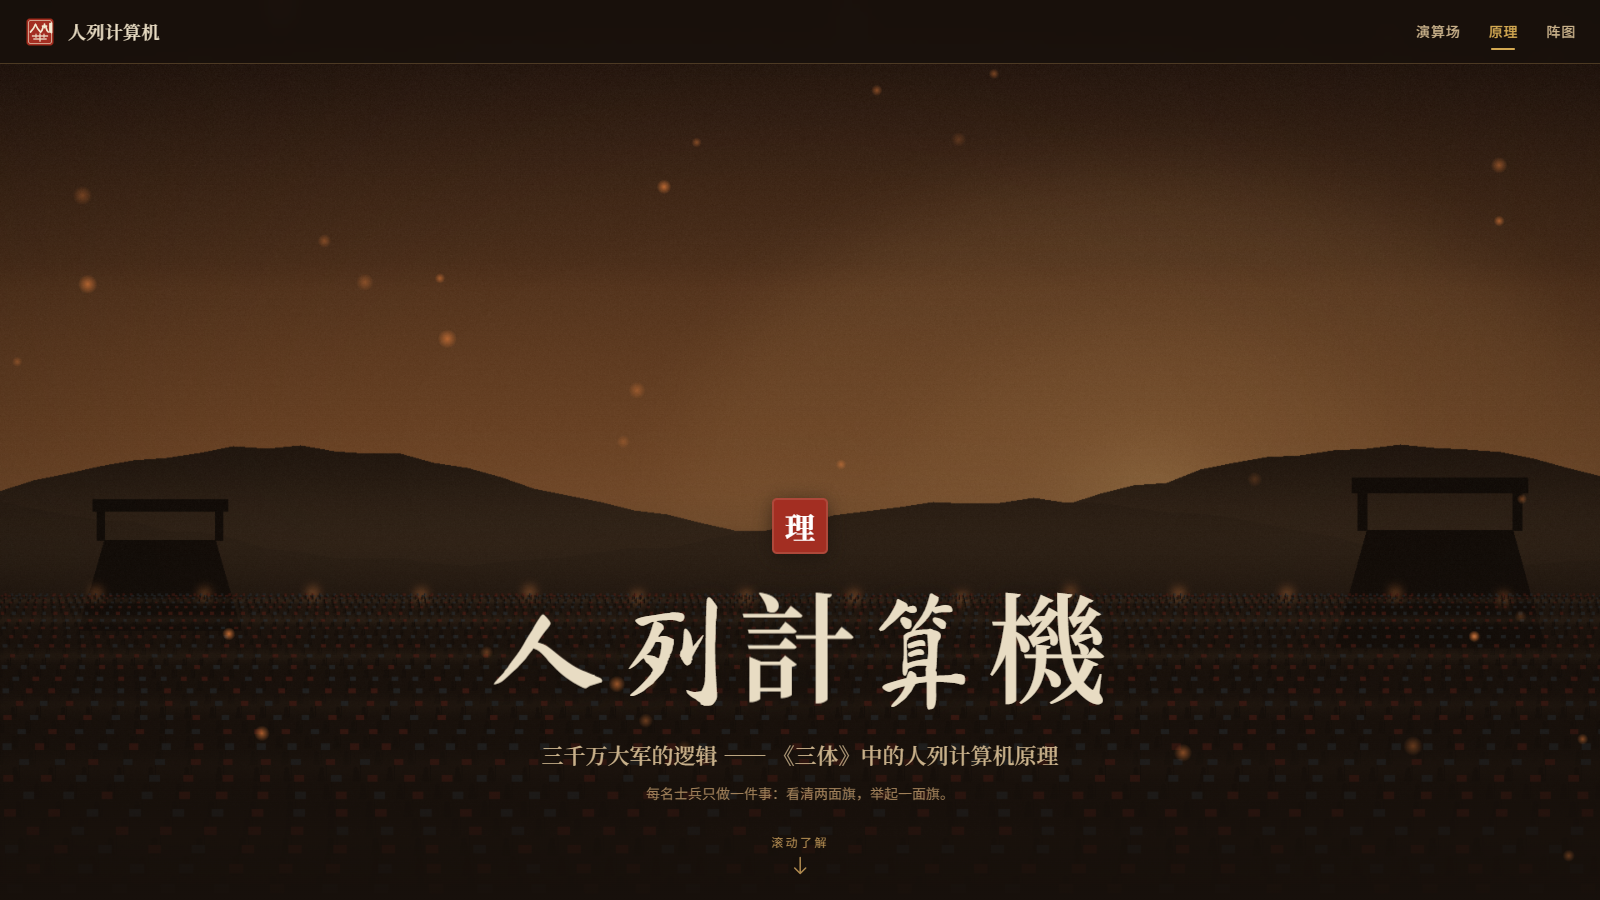
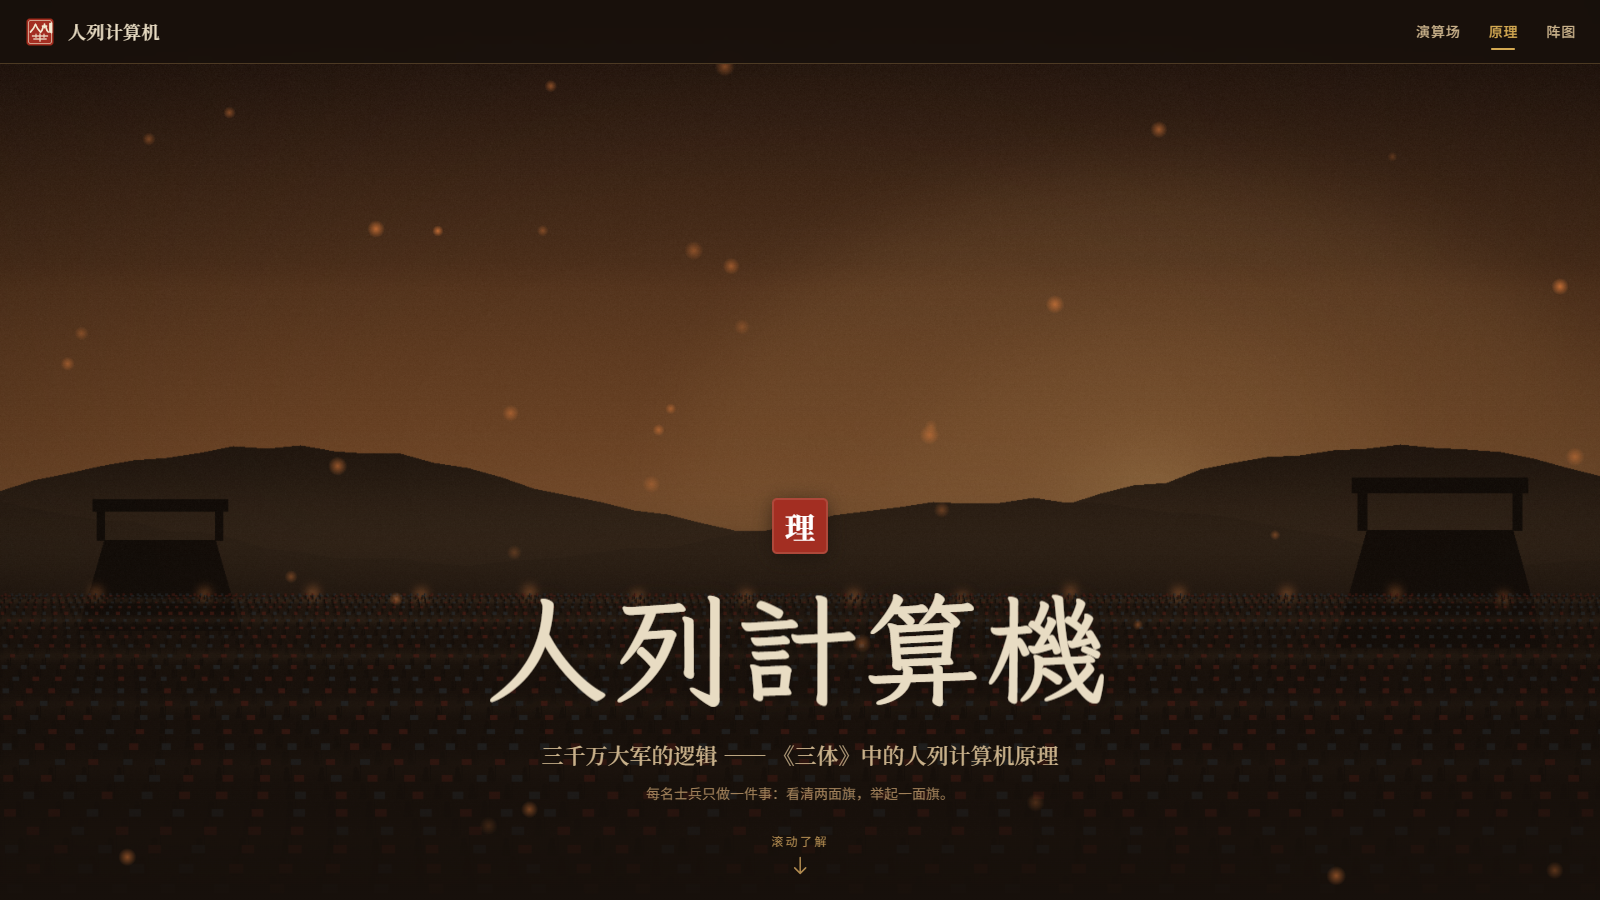
Refresh README screenshots after the Traditional title font change.

diff --git a/README.md b/README.md
@@ -34,6 +34,8 @@
   <img alt="pages" src="https://img.shields.io/github/actions/workflow/status/suifei/santi-human-computer/deploy-pages.yml?label=GitHub%20Pages" />
 </p>
 
+![入阵页：繁体标题「人列計算機」](docs/screenshots/00-loading.png)
+
 ![演算场：注入列机位，秦兵持红蓝旗](docs/screenshots/01-yard.png)
 
 ---
